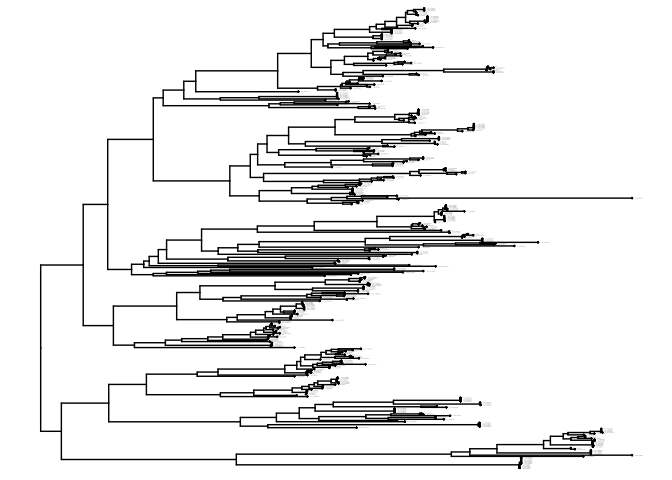
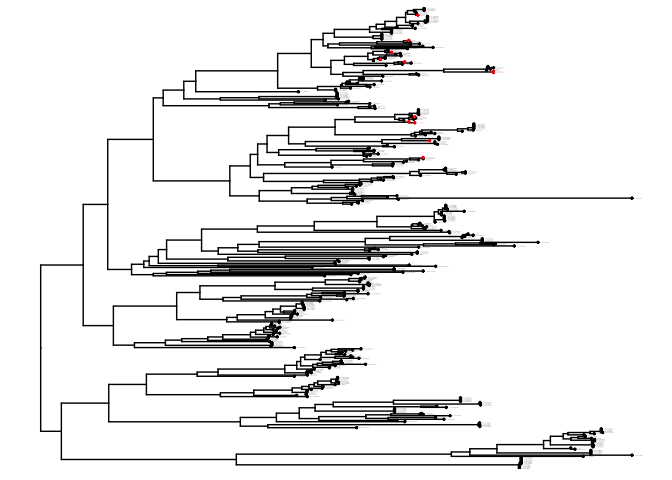
correcting error to make sure heat linked proteins are highlighted

diff --git a/06_heat_stress_perooxidases.md b/06_heat_stress_perooxidases.md
@@ -29,6 +29,9 @@ python3 na2aa.py < fasta_file >
 These ORFS, went rhough the same steps as in 01 and 02 to add the haem
 peropxidase domains (if they were able to be extracted) into the gene
 tree, giving us a gene tree which highlighted the external ORFs
+
+    ## Joining with `by = join_by(parent, node, branch.length, label)`
+
 ![](06_heat_stress_perooxidases_files/figure-gfm/unnamed-chunk-5-1.png)<!-- -->
 
 As is evident all the heat linked proteins are clustered at the top clad
